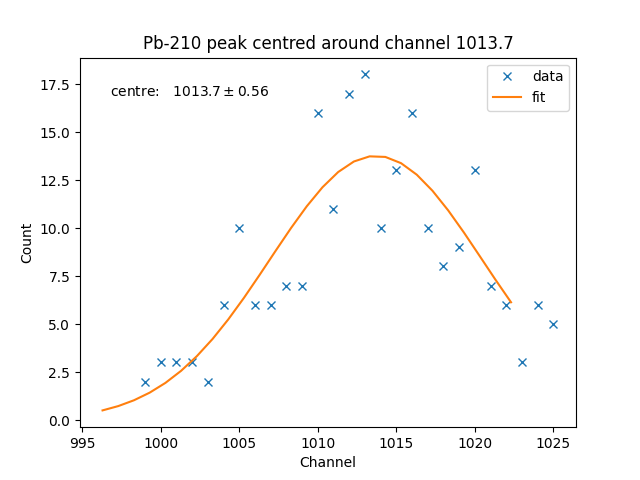
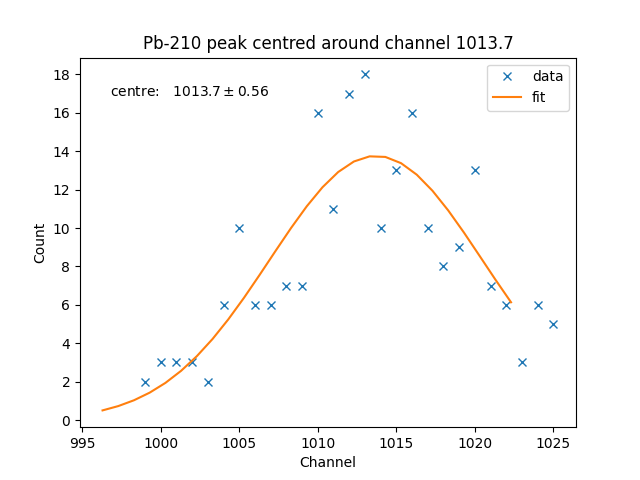
make count axis integers only

diff --git a/src/xrf/calib.py b/src/xrf/calib.py
@@ -12,6 +12,7 @@ from typing import Tuple, List, Callable
 
 import numpy as np
 import matplotlib.pyplot as plt
+from matplotlib.ticker import MaxNLocator
 from scipy.optimize import curve_fit
 from scipy.stats import chisquare
 
@@ -102,6 +103,7 @@ def fit_peak(
         label="data",
     )
     plt.plot(peak_fit_x, peak_fit_y, label="fit")
+    plt.gca().yaxis.set_major_locator(MaxNLocator(integer=True))
     plt.title(sample + " peak centred around channel " + str(peak_centre))
     plt.xlabel("Channel")
     plt.ylabel("Count")
